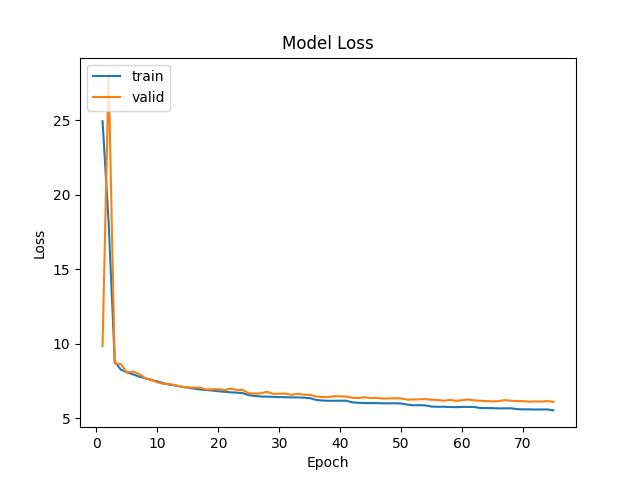
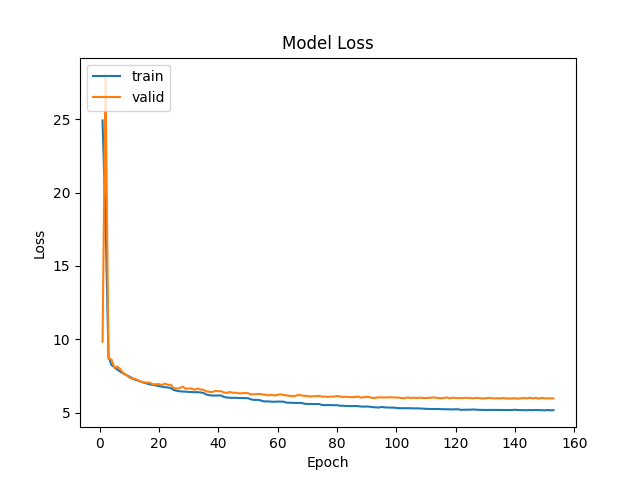
Added stuff

diff --git a/asl_research/data/preprocess_video.py b/asl_research/data/preprocess_video.py
@@ -27,7 +27,7 @@ LANDMARKS_PATH = os.path.join(FEATURES_PATH, "landmarks")
 mp_holistic = mp.solutions.holistic
 mp_drawing = mp.solutions.drawing_utils
 holistic_model = mp_holistic.Holistic(
-    min_detection_confidence=0.5, min_tracking_confidence=0.5, model_complexity=2
+    min_detection_confidence=0.5, min_tracking_confidence=0.5, model_complexity=0
 )
 
 
@@ -101,7 +101,7 @@ if __name__ == "__main__":
         os.mkdir(FEATURES_PATH)
 
     if not os.path.exists(LANDMARKS_PATH):
-        os.mkdir(FEATURES_PATH)
+        os.mkdir(LANDMARKS_PATH)
 
     # Process train, dev, and test videos so they are matrices of landmark data
     process_videos("train")
